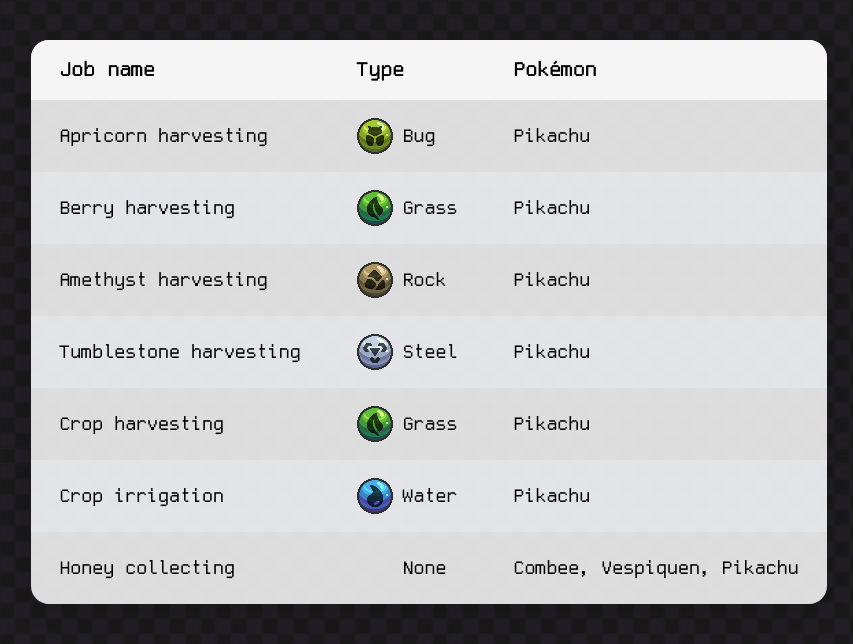
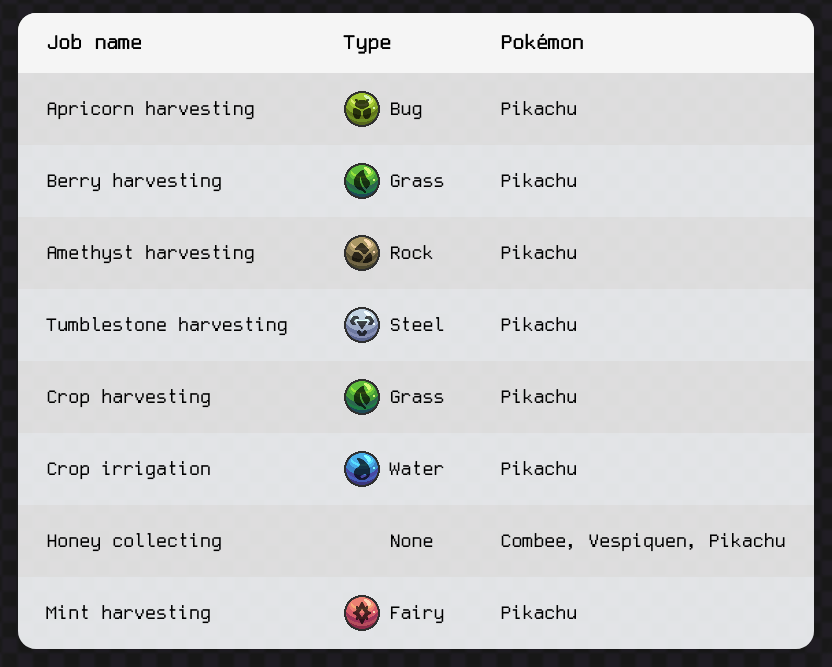
Update inforgraphic

diff --git a/src/main/resources/assets/cobbleworkers/infographic/index.html b/src/main/resources/assets/cobbleworkers/infographic/index.html
@@ -104,6 +104,11 @@
 				<td class="type-cell"><span class="type-icon" data-type="N.A."></span>None</td>
 				<td>Combee, Vespiquen, Pikachu</td>
 			</tr>
+			<tr>
+				<td>Mint harvesting</td>
+				<td class="type-cell"><span class="type-icon" data-type="Fairy"></span>Fairy</td>
+				<td>Pikachu</td>
+			</tr>
 		</tbody>
 	</table>
 	<script>

diff --git a/README.md b/README.md
@@ -20,6 +20,7 @@ By default
 - **Amethyst Mining** – Rock-types collect amethyst clusters nearby.
 - **Tumblestone Harvesting** – Steel-types collect tumblestone.
 - **Honey Collection** – The combee line gathers honeycombs from beehives.
+- **Mint Harvesting** - Fairy-types harvest mints.
 
 Pokémon will automatically place all of the items in inventories nearby!
 
